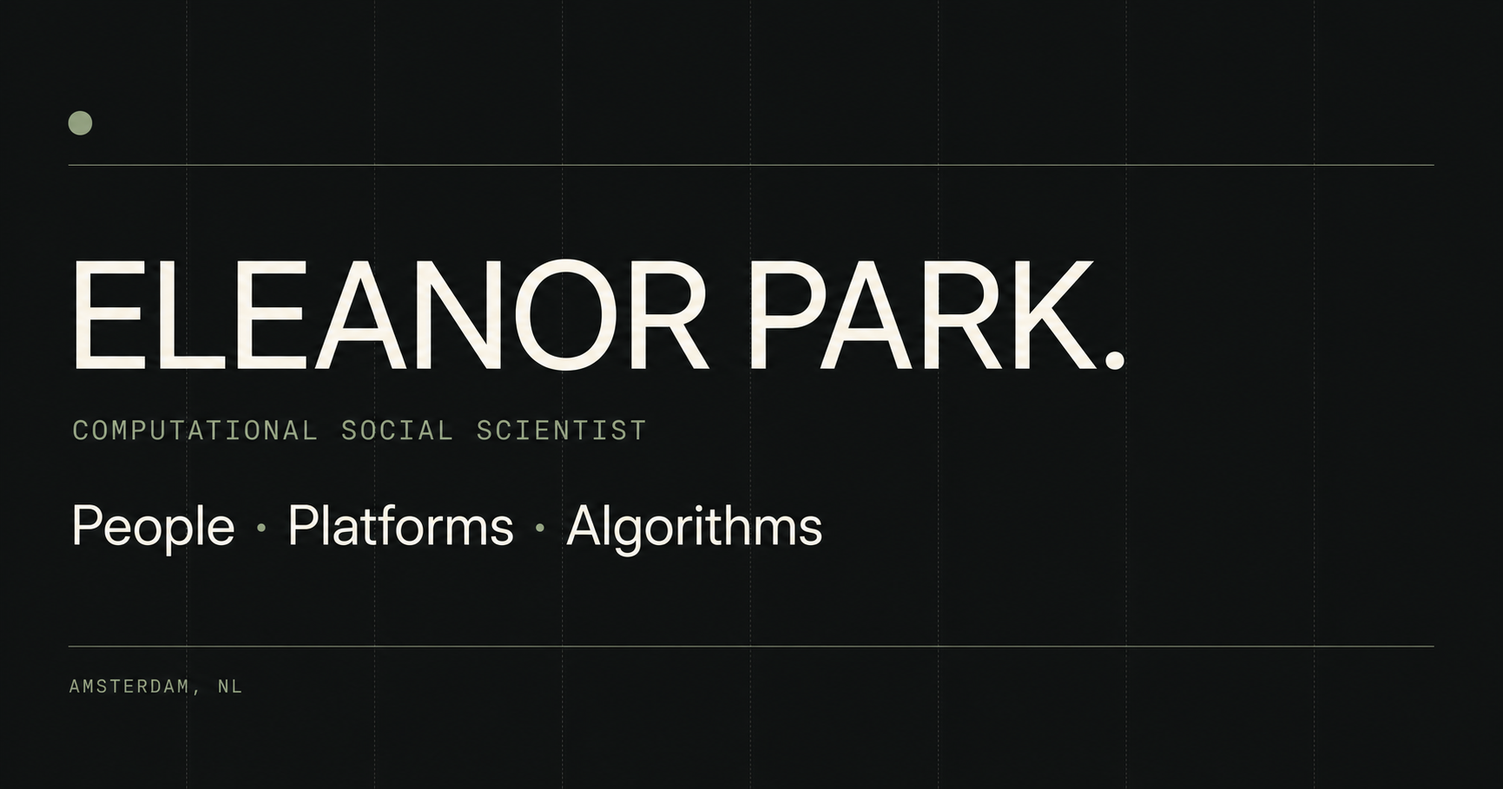
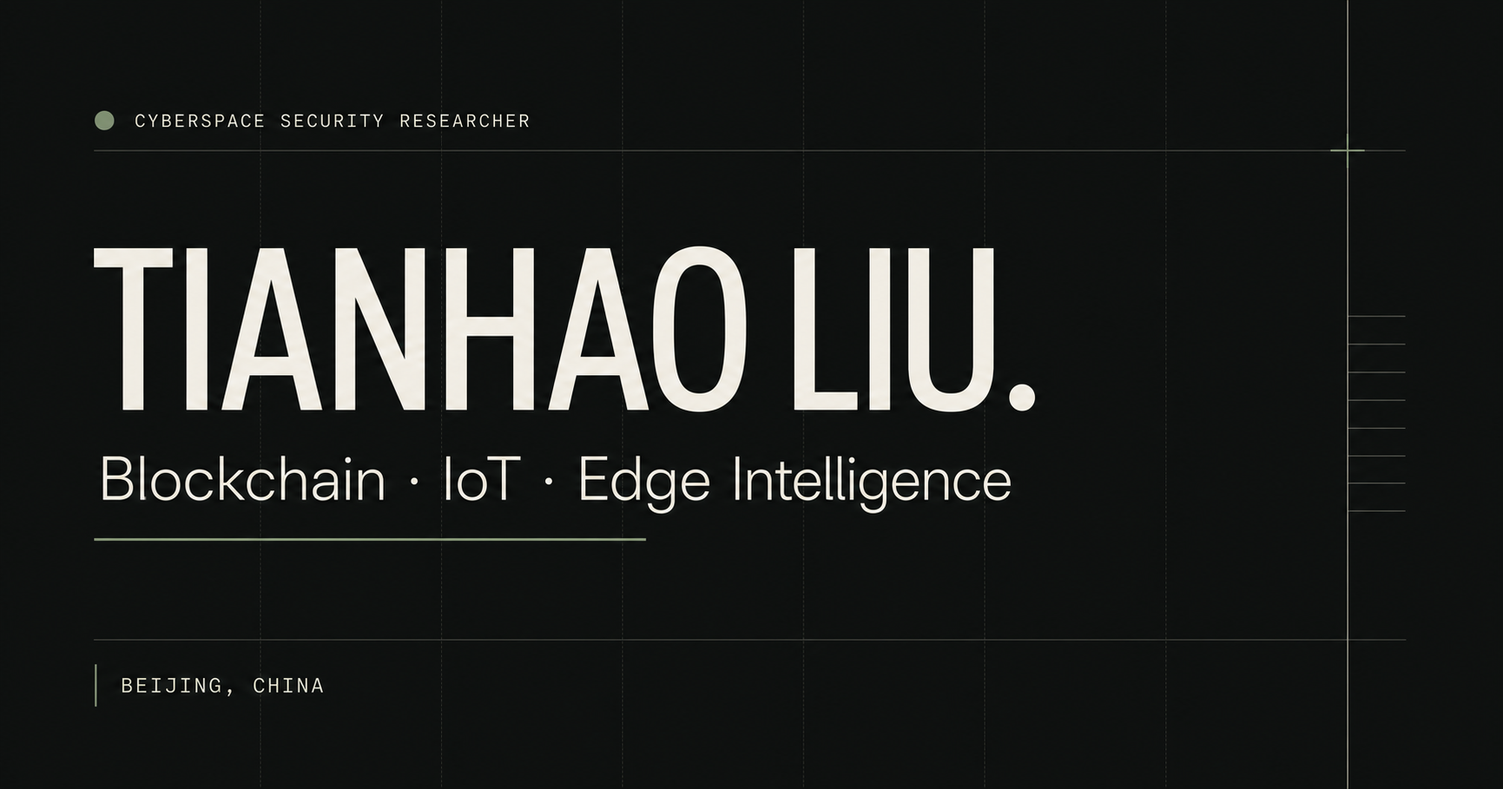
Update portfolio from Tianhao Liu CV

diff --git a/docs/index.html b/docs/index.html
@@ -3,10 +3,10 @@
 <head>
   <meta charset="utf-8">
   <meta name="viewport" content="width=device-width,initial-scale=1">
-  <title>Eleanor Park — Academic CV</title>
-  <meta name="description" content="Research profile and selected work of Eleanor Park, computational social scientist.">
-  <meta property="og:title" content="Eleanor Park — Computational Social Scientist">
-  <meta property="og:description" content="Researching how people, platforms, and algorithms shape collective behavior.">
+  <title>Tianhao Liu — Cyberspace Security Researcher</title>
+  <meta name="description" content="Research profile and selected work of Tianhao Liu, a cyberspace security researcher at Beijing Jiaotong University.">
+  <meta property="og:title" content="Tianhao Liu — Cyberspace Security Researcher">
+  <meta property="og:description" content="Researching blockchain, IoT, edge intelligence, and multi-agent reinforcement learning.">
   <meta property="og:image" content="https://lth0.github.io/og.png">
   <meta name="twitter:card" content="summary_large_image">
   <style>
@@ -47,30 +47,38 @@
   <div class="shell">
     <aside>
       <div class="eyebrow">Curriculum Vitae · 2026</div>
-      <h1>Eleanor<br>Park</h1>
-      <div class="role">Computational social scientist studying collective behavior in digital systems.</div>
+      <h1>Tianhao<br>Liu</h1>
+      <div class="role">PhD candidate in Cyberspace Security working on blockchain-enabled edge intelligence.</div>
       <nav aria-label="Primary navigation">
         <a href="#about">About</a><a href="#research">Research Focus</a><a href="#publications">Publications</a>
-        <a href="#experience">Experience</a><a href="#education">Education</a><a href="#contact">Contact</a>
+        <a href="#experience">Experience</a><a href="#education">Education</a><a href="#achievements">Achievements</a><a href="#skills">Skills</a><a href="#contact">Contact</a>
       </nav>
-      <div class="availability"><i></i>Open to research collaborations<br>Cambridge, Massachusetts · UTC−4</div>
+      <div class="availability"><i></i>Open to research collaborations<br>Beijing, China · UTC+8</div>
     </aside>
     <main>
-      <section id="about"><span class="section-no">01</span><div class="section-body"><h2>About</h2><p class="lead">I build computational methods to understand how <em>information, norms, and trust</em> move through networked publics.</p></div></section>
-      <section id="research"><span class="section-no">02</span><div class="section-body"><h2>Research Focus</h2><p>My work combines network science, causal inference, and large-scale behavioral data to examine online coordination and public-interest technology.</p><div class="tags"><span class="tag">Network Science</span><span class="tag">Causal Inference</span><span class="tag">Digital Governance</span><span class="tag">Human–AI Interaction</span></div></div></section>
+      <section id="about"><span class="section-no">01</span><div class="section-body"><h2>About</h2><p class="lead">I design secure and adaptive systems at the intersection of <em>blockchain, IoT, and edge intelligence</em>.</p></div></section>
+      <section id="research"><span class="section-no">02</span><div class="section-body"><h2>Research Focus</h2><p>My current research studies localized data surges and device heterogeneity in blockchain-enabled edge computing. I develop multi-agent reinforcement learning mechanisms for dynamic shard reorganization and lightweight simulation toolchains to improve load balance, throughput, consensus latency, and quality of service.</p><div class="tags"><span class="tag">Blockchain</span><span class="tag">Internet of Things</span><span class="tag">Edge Computing</span><span class="tag">Multi-Agent RL</span><span class="tag">Dynamic Sharding</span><span class="tag">Network Security</span></div></div></section>
       <section id="publications"><span class="section-no">03</span><div class="section-body"><h2>Selected Publications</h2>
-        <a class="pub" href="#"><span class="year">2026 · 01</span><span><span class="pub-title">Collective attention under algorithmic mediation</span><span class="pub-venue">Nature Human Behaviour · Park, E., Alvarez, M. &amp; Shah, R.</span></span></a>
-        <a class="pub" href="#"><span class="year">2025 · 02</span><span><span class="pub-title">Auditing the social consequences of recommender systems</span><span class="pub-venue">Proceedings of the ACM on HCI · Park, E. &amp; Chen, L.</span></span></a>
-        <a class="pub" href="#"><span class="year">2024 · 03</span><span><span class="pub-title">Network interventions for resilient online communities</span><span class="pub-venue">Science Advances · Park, E., Singh, A. et al.</span></span></a>
+        <div class="pub"><span class="year">2025 · 01</span><span><span class="pub-title">Generative AI-driven Cross-layer Covert Communication: Fundamentals, Framework and Case Study</span><span class="pub-venue">IEEE Communications Magazine · Major revision · First author</span></span></div>
+        <div class="pub"><span class="year">2025 · 02</span><span><span class="pub-title">PGN: The RNN's New Successor is Effective for Long-Range Time Series Forecasting</span><span class="pub-venue">NeurIPS 2025 · Co-author</span></span></div>
+        <div class="pub"><span class="year">2024 · 03</span><span><span class="pub-title">Blockchain and Trusted Hardware-Enabled Data Scheduling for Edge Learning in Wireless IIoT</span><span class="pub-venue">IEEE Internet of Things Journal 11(21), 34229–34242 · First author</span></span></div>
+        <div class="pub"><span class="year">2024 · 04</span><span><span class="pub-title">EPDB: An Efficient and Privacy-Preserving Electric Charging Scheme in the Internet of Robotic Things</span><span class="pub-venue">IEEE Internet of Things Journal · Co-author</span></span></div>
+        <div class="pub"><span class="year">2023 · 05</span><span><span class="pub-title">Secure and Scalable Blockchain for IIoT with Dual Compression Scheme</span><span class="pub-venue">IEEE Cybermatics Congress · Co-author</span></span></div>
+        <div class="pub"><span class="year">2020 · 06</span><span><span class="pub-title">Toward Conditionally Anonymous Bitcoin Transactions: A Lightweight-Script Approach</span><span class="pub-venue">Information Sciences 509, 290–303 · Co-author</span></span></div>
       </div></section>
       <section id="experience"><span class="section-no">04</span><div class="section-body"><h2>Experience</h2>
-        <div class="entry"><span class="year">2023—Now</span><div><h3>Assistant Professor · Meridian Institute of Technology</h3><p>Social Systems Lab; faculty affiliate, Center for Responsible Computing.</p></div></div>
-        <div class="entry"><span class="year">2021—23</span><div><h3>Postdoctoral Fellow · Stanford University</h3><p>Computational Social Science and Digital Democracy programs.</p></div></div>
+        <div class="entry"><span class="year">2023—Now</span><div><h3>Blockchain-based Distributed Trustworthy Intelligent Computing</h3><p>National Key R&amp;D Program. Proposed DID- and DRCM-based data ownership mechanisms for TB-scale on-chain and PB-scale off-chain data management.</p></div></div>
+        <div class="entry"><span class="year">2022—24</span><div><h3>Railway Locomotive Intelligent O&amp;M and PHM Security</h3><p>Developed blockchain-based trusted data verification and a cloud-edge-end collaborative security architecture for locomotive PHM systems.</p></div></div>
+        <div class="entry"><span class="year">2021—23</span><div><h3>APT Attack Detection in Railway Information Networks</h3><p>Designed kill-chain-based assessment, CNN attack detection, and user-behavior analysis; deployed at a railway administration information center.</p></div></div>
+        <div class="entry"><span class="year">2021—22</span><div><h3>Industrial Internet Security Consulting</h3><p>Assessed enterprise information systems, identified critical vulnerabilities, and delivered tailored security recommendations to the CTO.</p></div></div>
+        <div class="entry"><span class="year">2018—20</span><div><h3>Cross-domain Logistics Data Management</h3><p>Built an isomorphic cross-chain verification platform enabling cross-domain identity authentication for transport vehicles.</p></div></div>
       </div></section>
-      <section id="education"><span class="section-no">05</span><div class="section-body"><h2>Education</h2><div class="entry"><span class="year">2021</span><div><h3>PhD, Information Science · Cornell University</h3><p>Dissertation: Collective sensemaking in networked environments.</p></div></div><div class="entry"><span class="year">2015</span><div><h3>BA, Sociology &amp; Statistics · University of Chicago</h3></div></div></div></section>
-      <section id="contact"><span class="section-no">06</span><div class="section-body"><h2>Contact</h2><div class="contact-grid"><a href="mailto:eleanor.park@example.edu">Email</a><a href="#">Google Scholar</a><a href="#">ORCID</a><a href="#">Download CV</a></div></div></section>
+      <section id="education"><span class="section-no">05</span><div class="section-body"><h2>Education</h2><div class="entry"><span class="year">2026</span><div><h3>PhD, Cyberspace Security · Beijing Jiaotong University</h3><p>School of Cyberspace Science and Technology · Expected June 2026</p></div></div><div class="entry"><span class="year">2022</span><div><h3>MEng, Cyberspace Security · Beijing Jiaotong University</h3><p>School of Cyberspace Science and Technology</p></div></div><div class="entry"><span class="year">2019</span><div><h3>BEng, Information Security · Beijing Jiaotong University</h3><p>Computer Science and Information Technology</p></div></div></div></section>
+      <section id="achievements"><span class="section-no">06</span><div class="section-body"><h2>Achievements</h2><div class="entry"><span class="year">2024</span><div><h3>First-Class Doctoral Academic Scholarship</h3><p>Beijing Jiaotong University</p></div></div><div class="entry"><span class="year">2024</span><div><h3>Challenge Cup · Bronze Award</h3><p>Beijing Jiaotong University</p></div></div><div class="entry"><span class="year">2022</span><div><h3>Outstanding Graduate</h3><p>Beijing Jiaotong University</p></div></div><div class="entry"><span class="year">2021</span><div><h3>First-Class Master's Academic Scholarship</h3><p>Beijing Jiaotong University</p></div></div></div></section>
+      <section id="skills"><span class="section-no">07</span><div class="section-body"><h2>Skills</h2><div class="tags"><span class="tag">Python</span><span class="tag">C/C++</span><span class="tag">Java</span><span class="tag">Solidity</span><span class="tag">PyTorch</span><span class="tag">Tianshou</span><span class="tag">Ethereum</span><span class="tag">Hyperledger Fabric</span><span class="tag">FISCO BCOS</span></div><p style="margin-top:28px;color:var(--muted)">Hobbies: Go and hiking.</p></div></section>
+      <section id="contact"><span class="section-no">08</span><div class="section-body"><h2>Contact</h2><div class="contact-grid"><a href="mailto:leolth@bjtu.edu.cn">Email</a><a href="http://infosec.bjtu.edu.cn/">Laboratory</a><a href="https://www.bjtu.edu.cn/">Beijing Jiaotong University</a><a href="https://scholar.google.com/citations?user=8vJZDzoAAAAJ">Supervisor: Jiqiang Liu</a></div></div></section>
     </main>
-    <footer><span>Last updated · July 2026</span><span>Designed for clarity, built with restraint.</span></footer>
+    <footer><span>Last updated · July 2026</span><span>© 2026 Tianhao Liu</span></footer>
   </div>
 </body>
 </html>

diff --git a/index.html b/index.html
@@ -3,10 +3,10 @@
 <head>
   <meta charset="utf-8">
   <meta name="viewport" content="width=device-width,initial-scale=1">
-  <title>Eleanor Park — Academic CV</title>
-  <meta name="description" content="Research profile and selected work of Eleanor Park, computational social scientist.">
-  <meta property="og:title" content="Eleanor Park — Computational Social Scientist">
-  <meta property="og:description" content="Researching how people, platforms, and algorithms shape collective behavior.">
+  <title>Tianhao Liu — Cyberspace Security Researcher</title>
+  <meta name="description" content="Research profile and selected work of Tianhao Liu, a cyberspace security researcher at Beijing Jiaotong University.">
+  <meta property="og:title" content="Tianhao Liu — Cyberspace Security Researcher">
+  <meta property="og:description" content="Researching blockchain, IoT, edge intelligence, and multi-agent reinforcement learning.">
   <meta property="og:image" content="https://lth0.github.io/og.png">
   <meta name="twitter:card" content="summary_large_image">
   <style>
@@ -47,30 +47,38 @@
   <div class="shell">
     <aside>
       <div class="eyebrow">Curriculum Vitae · 2026</div>
-      <h1>Eleanor<br>Park</h1>
-      <div class="role">Computational social scientist studying collective behavior in digital systems.</div>
+      <h1>Tianhao<br>Liu</h1>
+      <div class="role">PhD candidate in Cyberspace Security working on blockchain-enabled edge intelligence.</div>
       <nav aria-label="Primary navigation">
         <a href="#about">About</a><a href="#research">Research Focus</a><a href="#publications">Publications</a>
-        <a href="#experience">Experience</a><a href="#education">Education</a><a href="#contact">Contact</a>
+        <a href="#experience">Experience</a><a href="#education">Education</a><a href="#achievements">Achievements</a><a href="#skills">Skills</a><a href="#contact">Contact</a>
       </nav>
-      <div class="availability"><i></i>Open to research collaborations<br>Cambridge, Massachusetts · UTC−4</div>
+      <div class="availability"><i></i>Open to research collaborations<br>Beijing, China · UTC+8</div>
     </aside>
     <main>
-      <section id="about"><span class="section-no">01</span><div class="section-body"><h2>About</h2><p class="lead">I build computational methods to understand how <em>information, norms, and trust</em> move through networked publics.</p></div></section>
-      <section id="research"><span class="section-no">02</span><div class="section-body"><h2>Research Focus</h2><p>My work combines network science, causal inference, and large-scale behavioral data to examine online coordination and public-interest technology.</p><div class="tags"><span class="tag">Network Science</span><span class="tag">Causal Inference</span><span class="tag">Digital Governance</span><span class="tag">Human–AI Interaction</span></div></div></section>
+      <section id="about"><span class="section-no">01</span><div class="section-body"><h2>About</h2><p class="lead">I design secure and adaptive systems at the intersection of <em>blockchain, IoT, and edge intelligence</em>.</p></div></section>
+      <section id="research"><span class="section-no">02</span><div class="section-body"><h2>Research Focus</h2><p>My current research studies localized data surges and device heterogeneity in blockchain-enabled edge computing. I develop multi-agent reinforcement learning mechanisms for dynamic shard reorganization and lightweight simulation toolchains to improve load balance, throughput, consensus latency, and quality of service.</p><div class="tags"><span class="tag">Blockchain</span><span class="tag">Internet of Things</span><span class="tag">Edge Computing</span><span class="tag">Multi-Agent RL</span><span class="tag">Dynamic Sharding</span><span class="tag">Network Security</span></div></div></section>
       <section id="publications"><span class="section-no">03</span><div class="section-body"><h2>Selected Publications</h2>
-        <a class="pub" href="#"><span class="year">2026 · 01</span><span><span class="pub-title">Collective attention under algorithmic mediation</span><span class="pub-venue">Nature Human Behaviour · Park, E., Alvarez, M. &amp; Shah, R.</span></span></a>
-        <a class="pub" href="#"><span class="year">2025 · 02</span><span><span class="pub-title">Auditing the social consequences of recommender systems</span><span class="pub-venue">Proceedings of the ACM on HCI · Park, E. &amp; Chen, L.</span></span></a>
-        <a class="pub" href="#"><span class="year">2024 · 03</span><span><span class="pub-title">Network interventions for resilient online communities</span><span class="pub-venue">Science Advances · Park, E., Singh, A. et al.</span></span></a>
+        <div class="pub"><span class="year">2025 · 01</span><span><span class="pub-title">Generative AI-driven Cross-layer Covert Communication: Fundamentals, Framework and Case Study</span><span class="pub-venue">IEEE Communications Magazine · Major revision · First author</span></span></div>
+        <div class="pub"><span class="year">2025 · 02</span><span><span class="pub-title">PGN: The RNN's New Successor is Effective for Long-Range Time Series Forecasting</span><span class="pub-venue">NeurIPS 2025 · Co-author</span></span></div>
+        <div class="pub"><span class="year">2024 · 03</span><span><span class="pub-title">Blockchain and Trusted Hardware-Enabled Data Scheduling for Edge Learning in Wireless IIoT</span><span class="pub-venue">IEEE Internet of Things Journal 11(21), 34229–34242 · First author</span></span></div>
+        <div class="pub"><span class="year">2024 · 04</span><span><span class="pub-title">EPDB: An Efficient and Privacy-Preserving Electric Charging Scheme in the Internet of Robotic Things</span><span class="pub-venue">IEEE Internet of Things Journal · Co-author</span></span></div>
+        <div class="pub"><span class="year">2023 · 05</span><span><span class="pub-title">Secure and Scalable Blockchain for IIoT with Dual Compression Scheme</span><span class="pub-venue">IEEE Cybermatics Congress · Co-author</span></span></div>
+        <div class="pub"><span class="year">2020 · 06</span><span><span class="pub-title">Toward Conditionally Anonymous Bitcoin Transactions: A Lightweight-Script Approach</span><span class="pub-venue">Information Sciences 509, 290–303 · Co-author</span></span></div>
       </div></section>
       <section id="experience"><span class="section-no">04</span><div class="section-body"><h2>Experience</h2>
-        <div class="entry"><span class="year">2023—Now</span><div><h3>Assistant Professor · Meridian Institute of Technology</h3><p>Social Systems Lab; faculty affiliate, Center for Responsible Computing.</p></div></div>
-        <div class="entry"><span class="year">2021—23</span><div><h3>Postdoctoral Fellow · Stanford University</h3><p>Computational Social Science and Digital Democracy programs.</p></div></div>
+        <div class="entry"><span class="year">2023—Now</span><div><h3>Blockchain-based Distributed Trustworthy Intelligent Computing</h3><p>National Key R&amp;D Program. Proposed DID- and DRCM-based data ownership mechanisms for TB-scale on-chain and PB-scale off-chain data management.</p></div></div>
+        <div class="entry"><span class="year">2022—24</span><div><h3>Railway Locomotive Intelligent O&amp;M and PHM Security</h3><p>Developed blockchain-based trusted data verification and a cloud-edge-end collaborative security architecture for locomotive PHM systems.</p></div></div>
+        <div class="entry"><span class="year">2021—23</span><div><h3>APT Attack Detection in Railway Information Networks</h3><p>Designed kill-chain-based assessment, CNN attack detection, and user-behavior analysis; deployed at a railway administration information center.</p></div></div>
+        <div class="entry"><span class="year">2021—22</span><div><h3>Industrial Internet Security Consulting</h3><p>Assessed enterprise information systems, identified critical vulnerabilities, and delivered tailored security recommendations to the CTO.</p></div></div>
+        <div class="entry"><span class="year">2018—20</span><div><h3>Cross-domain Logistics Data Management</h3><p>Built an isomorphic cross-chain verification platform enabling cross-domain identity authentication for transport vehicles.</p></div></div>
       </div></section>
-      <section id="education"><span class="section-no">05</span><div class="section-body"><h2>Education</h2><div class="entry"><span class="year">2021</span><div><h3>PhD, Information Science · Cornell University</h3><p>Dissertation: Collective sensemaking in networked environments.</p></div></div><div class="entry"><span class="year">2015</span><div><h3>BA, Sociology &amp; Statistics · University of Chicago</h3></div></div></div></section>
-      <section id="contact"><span class="section-no">06</span><div class="section-body"><h2>Contact</h2><div class="contact-grid"><a href="mailto:eleanor.park@example.edu">Email</a><a href="#">Google Scholar</a><a href="#">ORCID</a><a href="#">Download CV</a></div></div></section>
+      <section id="education"><span class="section-no">05</span><div class="section-body"><h2>Education</h2><div class="entry"><span class="year">2026</span><div><h3>PhD, Cyberspace Security · Beijing Jiaotong University</h3><p>School of Cyberspace Science and Technology · Expected June 2026</p></div></div><div class="entry"><span class="year">2022</span><div><h3>MEng, Cyberspace Security · Beijing Jiaotong University</h3><p>School of Cyberspace Science and Technology</p></div></div><div class="entry"><span class="year">2019</span><div><h3>BEng, Information Security · Beijing Jiaotong University</h3><p>Computer Science and Information Technology</p></div></div></div></section>
+      <section id="achievements"><span class="section-no">06</span><div class="section-body"><h2>Achievements</h2><div class="entry"><span class="year">2024</span><div><h3>First-Class Doctoral Academic Scholarship</h3><p>Beijing Jiaotong University</p></div></div><div class="entry"><span class="year">2024</span><div><h3>Challenge Cup · Bronze Award</h3><p>Beijing Jiaotong University</p></div></div><div class="entry"><span class="year">2022</span><div><h3>Outstanding Graduate</h3><p>Beijing Jiaotong University</p></div></div><div class="entry"><span class="year">2021</span><div><h3>First-Class Master's Academic Scholarship</h3><p>Beijing Jiaotong University</p></div></div></div></section>
+      <section id="skills"><span class="section-no">07</span><div class="section-body"><h2>Skills</h2><div class="tags"><span class="tag">Python</span><span class="tag">C/C++</span><span class="tag">Java</span><span class="tag">Solidity</span><span class="tag">PyTorch</span><span class="tag">Tianshou</span><span class="tag">Ethereum</span><span class="tag">Hyperledger Fabric</span><span class="tag">FISCO BCOS</span></div><p style="margin-top:28px;color:var(--muted)">Hobbies: Go and hiking.</p></div></section>
+      <section id="contact"><span class="section-no">08</span><div class="section-body"><h2>Contact</h2><div class="contact-grid"><a href="mailto:leolth@bjtu.edu.cn">Email</a><a href="http://infosec.bjtu.edu.cn/">Laboratory</a><a href="https://www.bjtu.edu.cn/">Beijing Jiaotong University</a><a href="https://scholar.google.com/citations?user=8vJZDzoAAAAJ">Supervisor: Jiqiang Liu</a></div></div></section>
     </main>
-    <footer><span>Last updated · July 2026</span><span>Designed for clarity, built with restraint.</span></footer>
+    <footer><span>Last updated · July 2026</span><span>© 2026 Tianhao Liu</span></footer>
   </div>
 </body>
 </html>

diff --git a/app/page.tsx b/app/page.tsx
@@ -1,29 +1,29 @@
 const publications = [
   {
-    year: "2026",
-    title: "Forecasting collective attention with interpretable temporal networks",
-    venue: "Nature Human Behaviour · In press",
-    authors: "E. Park, M. Alvarez, S. Okafor",
+    year: "2025",
+    title: "Generative AI-driven Cross-layer Covert Communication: Fundamentals, Framework and Case Study",
+    venue: "IEEE Communications Magazine · Major revision",
+    authors: "Tianhao Liu et al. · First author",
   },
   {
     year: "2025",
-    title: "Unequal diffusion: How platform design shapes public knowledge",
-    venue: "Proceedings of the National Academy of Sciences 122(14)",
-    authors: "E. Park, J. Klein",
+    title: "PGN: The RNN's New Successor is Effective for Long-Range Time Series Forecasting",
+    venue: "NeurIPS 2025",
+    authors: "Yuxin Jia et al. · Co-author",
   },
   {
     year: "2024",
-    title: "Auditing social algorithms through participatory simulations",
-    venue: "ACM Conference on Fairness, Accountability, and Transparency",
-    authors: "E. Park, R. Shah, L. Moreno",
+    title: "Blockchain and Trusted Hardware-Enabled Data Scheduling for Edge Learning in Wireless IIoT",
+    venue: "IEEE Internet of Things Journal 11(21), 34229–34242",
+    authors: "Tianhao Liu et al. · First author",
   },
 ];
 
 const focus = [
-  "Computational social science",
-  "Responsible AI",
-  "Network dynamics",
-  "Human-centered data",
+  "Blockchain & IoT",
+  "Edge computing",
+  "Multi-agent reinforcement learning",
+  "Dynamic sharding",
 ];
 
 export default function Home() {
@@ -31,9 +31,9 @@ export default function Home() {
     <main className="shell">
       <aside className="identity" aria-label="Profile and navigation">
         <div>
-          <p className="eyebrow">Computational Social Scientist</p>
-          <h1>Eleanor<br />Park<span>.</span></h1>
-          <p className="affiliation">Assistant Professor<br />University of Amsterdam</p>
+          <p className="eyebrow">Cyberspace Security Researcher</p>
+          <h1>Tianhao<br />Liu<span>.</span></h1>
+          <p className="affiliation">PhD Candidate<br />Beijing Jiaotong University</p>
           <p className="availability"><i aria-hidden="true" /> Open to collaboration</p>
         </div>
 
@@ -46,7 +46,7 @@ export default function Home() {
           <a href="#contact"><span>06</span>Contact</a>
         </nav>
 
-        <p className="side-note">Based in Amsterdam, NL<br />Working across disciplines &amp; time zones</p>
+        <p className="side-note">Based in Beijing, China<br />Blockchain · IoT · Edge Intelligence</p>
       </aside>
 
       <div className="content">
@@ -54,12 +54,12 @@ export default function Home() {
           <div className="section-number">01</div>
           <div>
             <p className="kicker">About</p>
-            <h2>I study how people, platforms, and algorithms shape collective behavior.</h2>
-            <p className="lead">My work combines network science, causal inference, and participatory methods to build digital systems that are more transparent, equitable, and useful to the communities they affect.</p>
+            <h2>I build secure and adaptive systems for blockchain-enabled edge intelligence.</h2>
+            <p className="lead">My work combines blockchain, IoT, edge computing, and multi-agent reinforcement learning to address shard load imbalance, throughput fluctuations, consensus latency, and quality-of-service degradation.</p>
             <div className="quick-links">
-              <a href="mailto:eleanor.park@example.com">Email ↗</a>
-              <a href="#publications">Google Scholar ↗</a>
-              <a href="#contact">Download CV ↓</a>
+              <a href="mailto:leolth@bjtu.edu.cn">Email ↗</a>
+              <a href="http://infosec.bjtu.edu.cn/">Laboratory ↗</a>
+              <a href="#publications">Publications ↓</a>
             </div>
           </div>
         </section>
@@ -95,9 +95,10 @@ export default function Home() {
           <div>
             <p className="kicker">Experience</p>
             <div className="timeline">
-              <article><p className="year">2023—Now</p><div><h3>Assistant Professor</h3><p>University of Amsterdam · Digital Society Initiative</p></div></article>
-              <article><p className="year">2020—23</p><div><h3>Postdoctoral Fellow</h3><p>MIT Media Lab · Social Machines Group</p></div></article>
-              <article><p className="year">2018—20</p><div><h3>Research Scientist</h3><p>Data &amp; Society Research Institute · New York</p></div></article>
+              <article><p className="year">2023—Now</p><div><h3>Distributed Trustworthy Intelligent Computing</h3><p>National Key R&amp;D Program · DID and DRCM-based data ownership</p></div></article>
+              <article><p className="year">2022—24</p><div><h3>Railway Locomotive PHM Security</h3><p>Blockchain verification and cloud-edge-end security architecture</p></div></article>
+              <article><p className="year">2021—23</p><div><h3>APT Detection for Railway Networks</h3><p>Kill-chain assessment, CNN detection, and user behavior analysis</p></div></article>
+              <article><p className="year">2018—20</p><div><h3>Cross-domain Logistics Data Management</h3><p>Isomorphic cross-chain identity authentication and data verification</p></div></article>
             </div>
           </div>
         </section>
@@ -107,8 +108,9 @@ export default function Home() {
           <div>
             <p className="kicker">Education</p>
             <div className="timeline">
-              <article><p className="year">2018</p><div><h3>PhD, Information Science</h3><p>Cornell University · Ithaca, NY</p></div></article>
-              <article><p className="year">2012</p><div><h3>MSc, Applied Mathematics</h3><p>University College London · London, UK</p></div></article>
+              <article><p className="year">2026</p><div><h3>PhD, Cyberspace Security</h3><p>Beijing Jiaotong University · Expected June 2026</p></div></article>
+              <article><p className="year">2022</p><div><h3>MEng, Cyberspace Security</h3><p>Beijing Jiaotong University</p></div></article>
+              <article><p className="year">2019</p><div><h3>BEng, Information Security</h3><p>Beijing Jiaotong University</p></div></article>
             </div>
           </div>
         </section>
@@ -118,13 +120,13 @@ export default function Home() {
           <div>
             <p className="kicker">Contact</p>
             <h2>Let&apos;s explore a question together.</h2>
-            <p>I welcome conversations about research collaborations, invited talks, doctoral supervision, and thoughtful applications of computational methods.</p>
+            <p>I welcome conversations about blockchain, IoT, edge intelligence, network security, and multi-agent reinforcement learning.</p>
             <div className="contact-grid">
-              <a href="mailto:eleanor.park@example.com"><span>Email</span>eleanor.park@example.com ↗</a>
-              <a href="#about"><span>Office</span>REC B, Amsterdam ↗</a>
-              <a href="#publications"><span>Profiles</span>Scholar · ORCID · GitHub ↗</a>
+              <a href="mailto:leolth@bjtu.edu.cn"><span>Email</span>leolth@bjtu.edu.cn ↗</a>
+              <a href="http://infosec.bjtu.edu.cn/"><span>Laboratory</span>BJTU Security &amp; Privacy Lab ↗</a>
+              <a href="https://www.bjtu.edu.cn/"><span>University</span>Beijing Jiaotong University ↗</a>
             </div>
-            <footer>© 2026 Eleanor Park <span>Last updated July 2026</span></footer>
+            <footer>© 2026 Tianhao Liu <span>Last updated July 2026</span></footer>
           </div>
         </section>
       </div>

diff --git a/app/layout.tsx b/app/layout.tsx
@@ -11,15 +11,15 @@ export async function generateMetadata(): Promise<Metadata> {
   const host = requestHeaders.get("x-forwarded-host") ?? requestHeaders.get("host") ?? "localhost:3000";
   const protocol = requestHeaders.get("x-forwarded-proto") ?? (host.startsWith("localhost") ? "http" : "https");
   const base = new URL(`${protocol}://${host}`);
-  const title = "Eleanor Park — Computational Social Scientist";
-  const description = "Researching how people, platforms, and algorithms shape collective behavior.";
+  const title = "Tianhao Liu — Cyberspace Security Researcher";
+  const description = "Researching blockchain, IoT, edge intelligence, and multi-agent reinforcement learning.";
 
   return {
     metadataBase: base,
     title,
     description,
     icons: { icon: "/favicon.svg", shortcut: "/favicon.svg" },
-    openGraph: { title, description, type: "website", images: [{ url: new URL("/og.png", base), width: 1200, height: 630, alt: "Eleanor Park — Computational Social Scientist" }] },
+    openGraph: { title, description, type: "website", images: [{ url: new URL("/og.png", base), width: 1200, height: 630, alt: "Tianhao Liu — Cyberspace Security Researcher" }] },
     twitter: { card: "summary_large_image", title, description, images: [new URL("/og.png", base)] },
   };
 }
